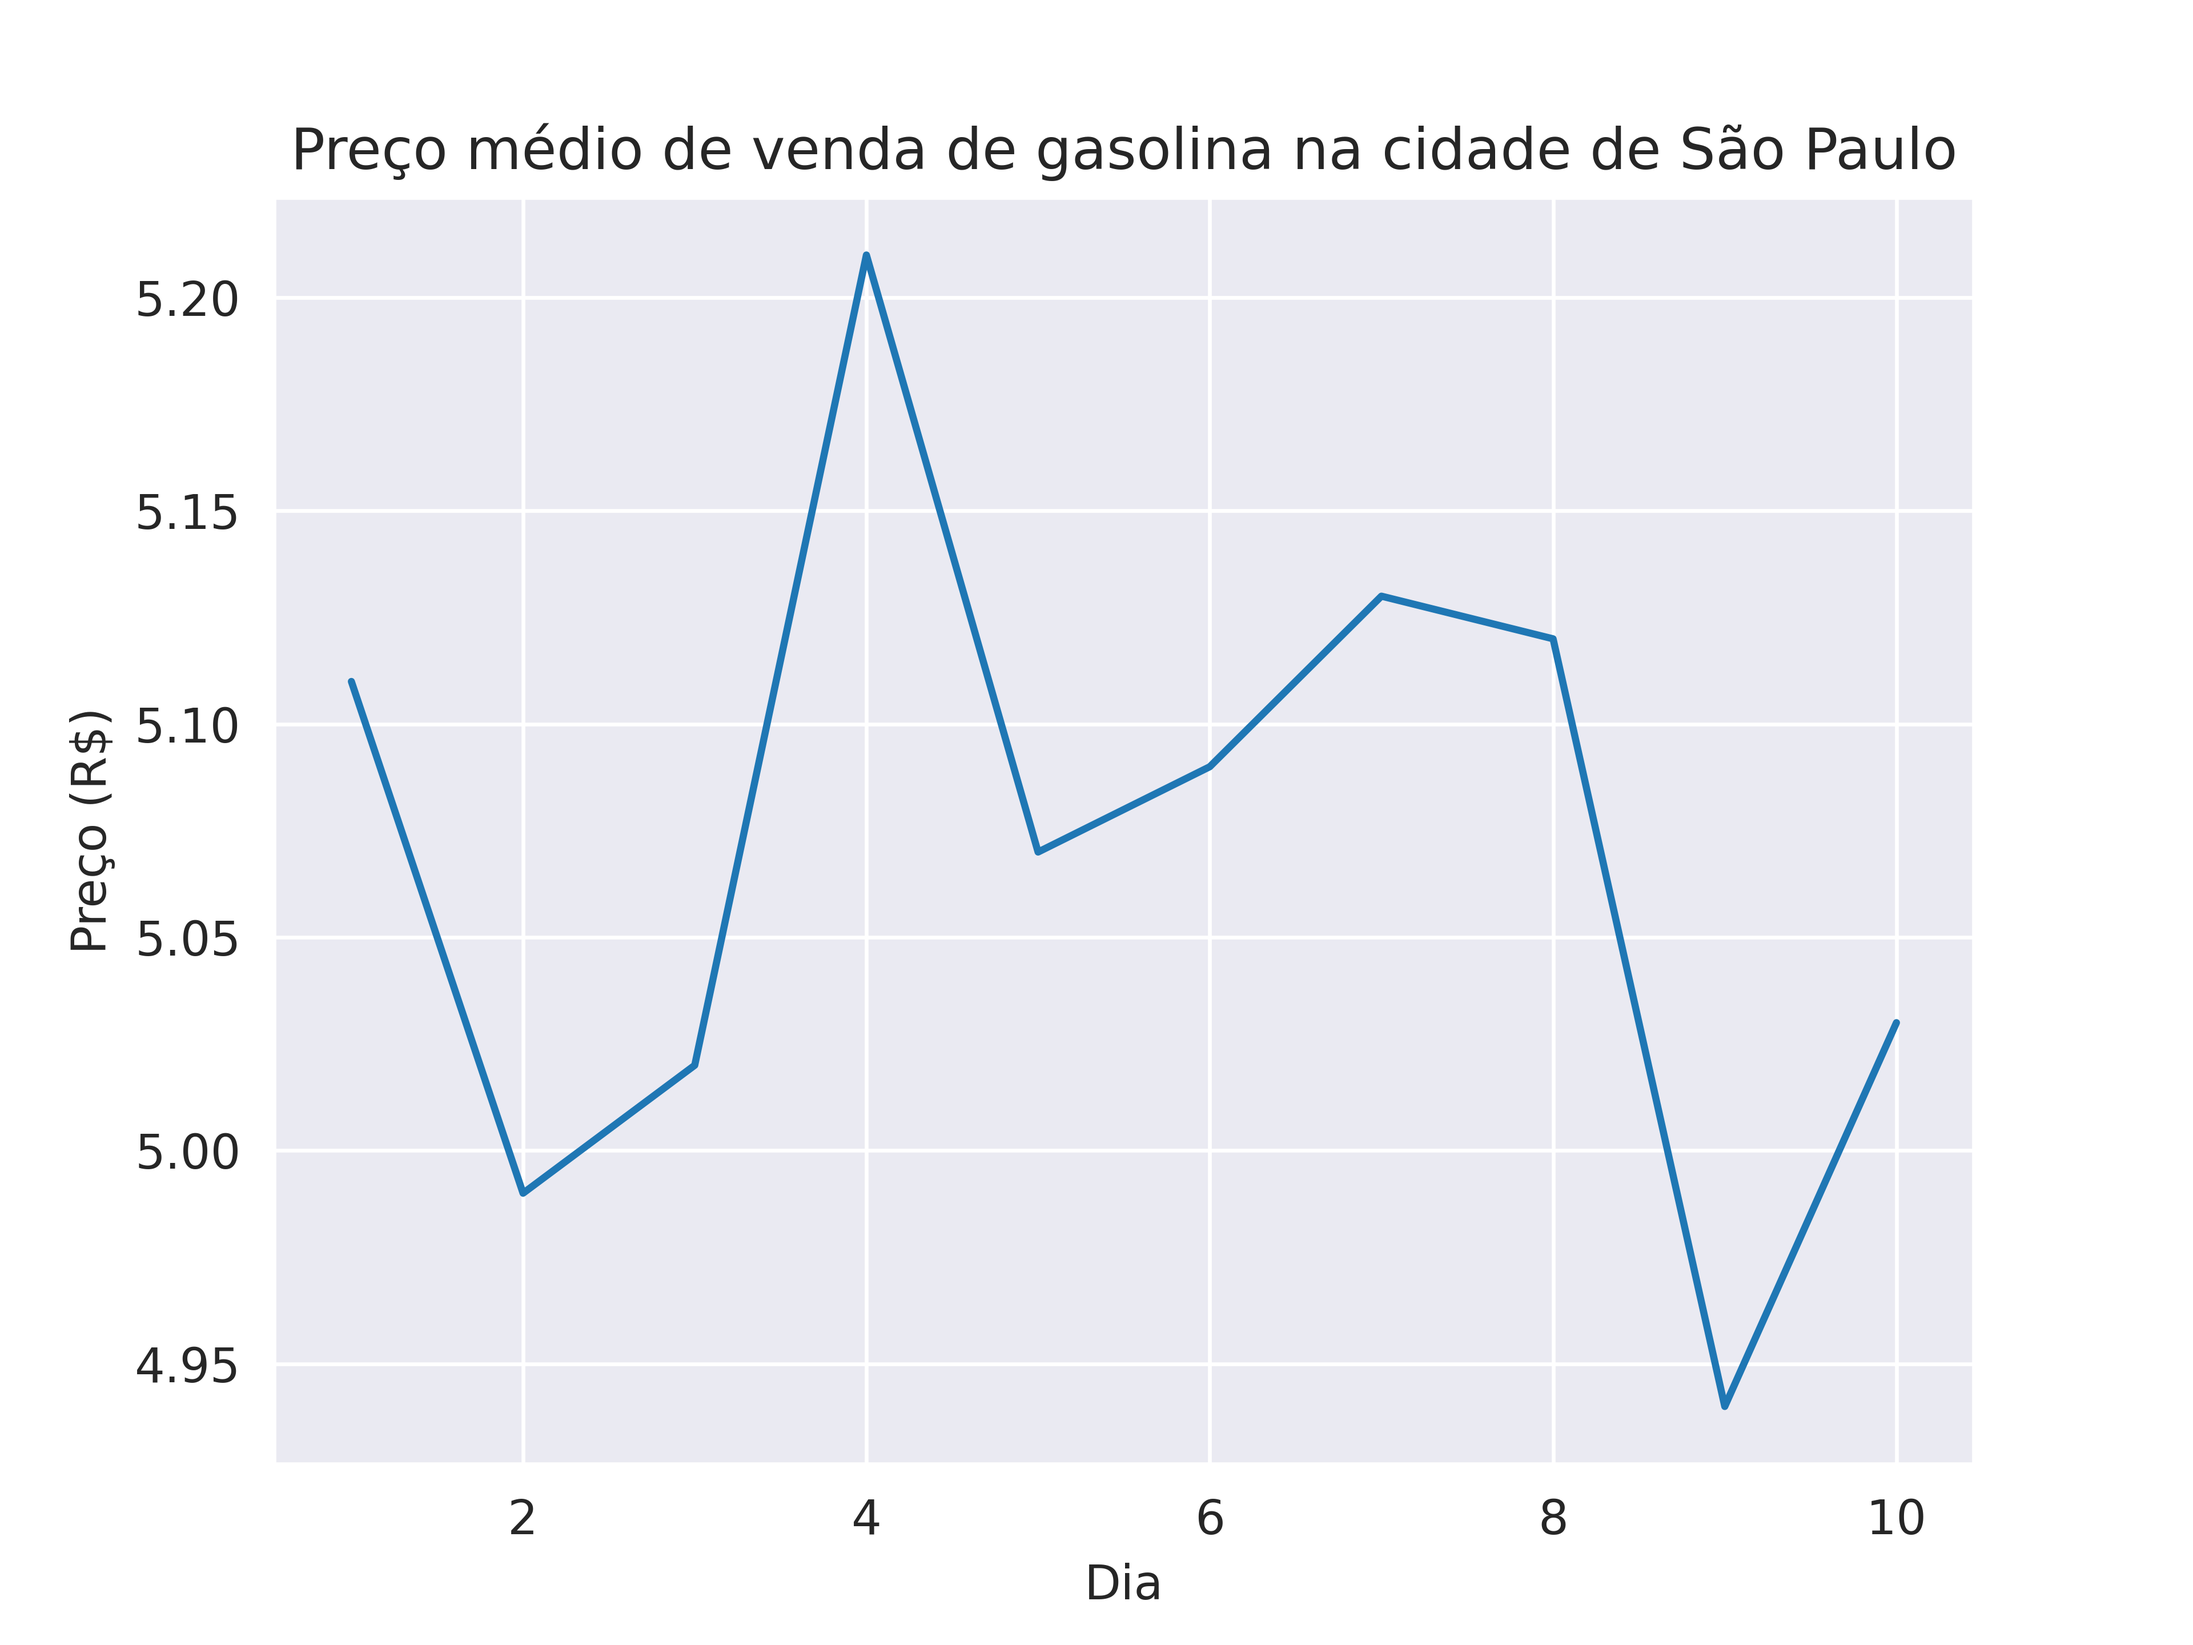
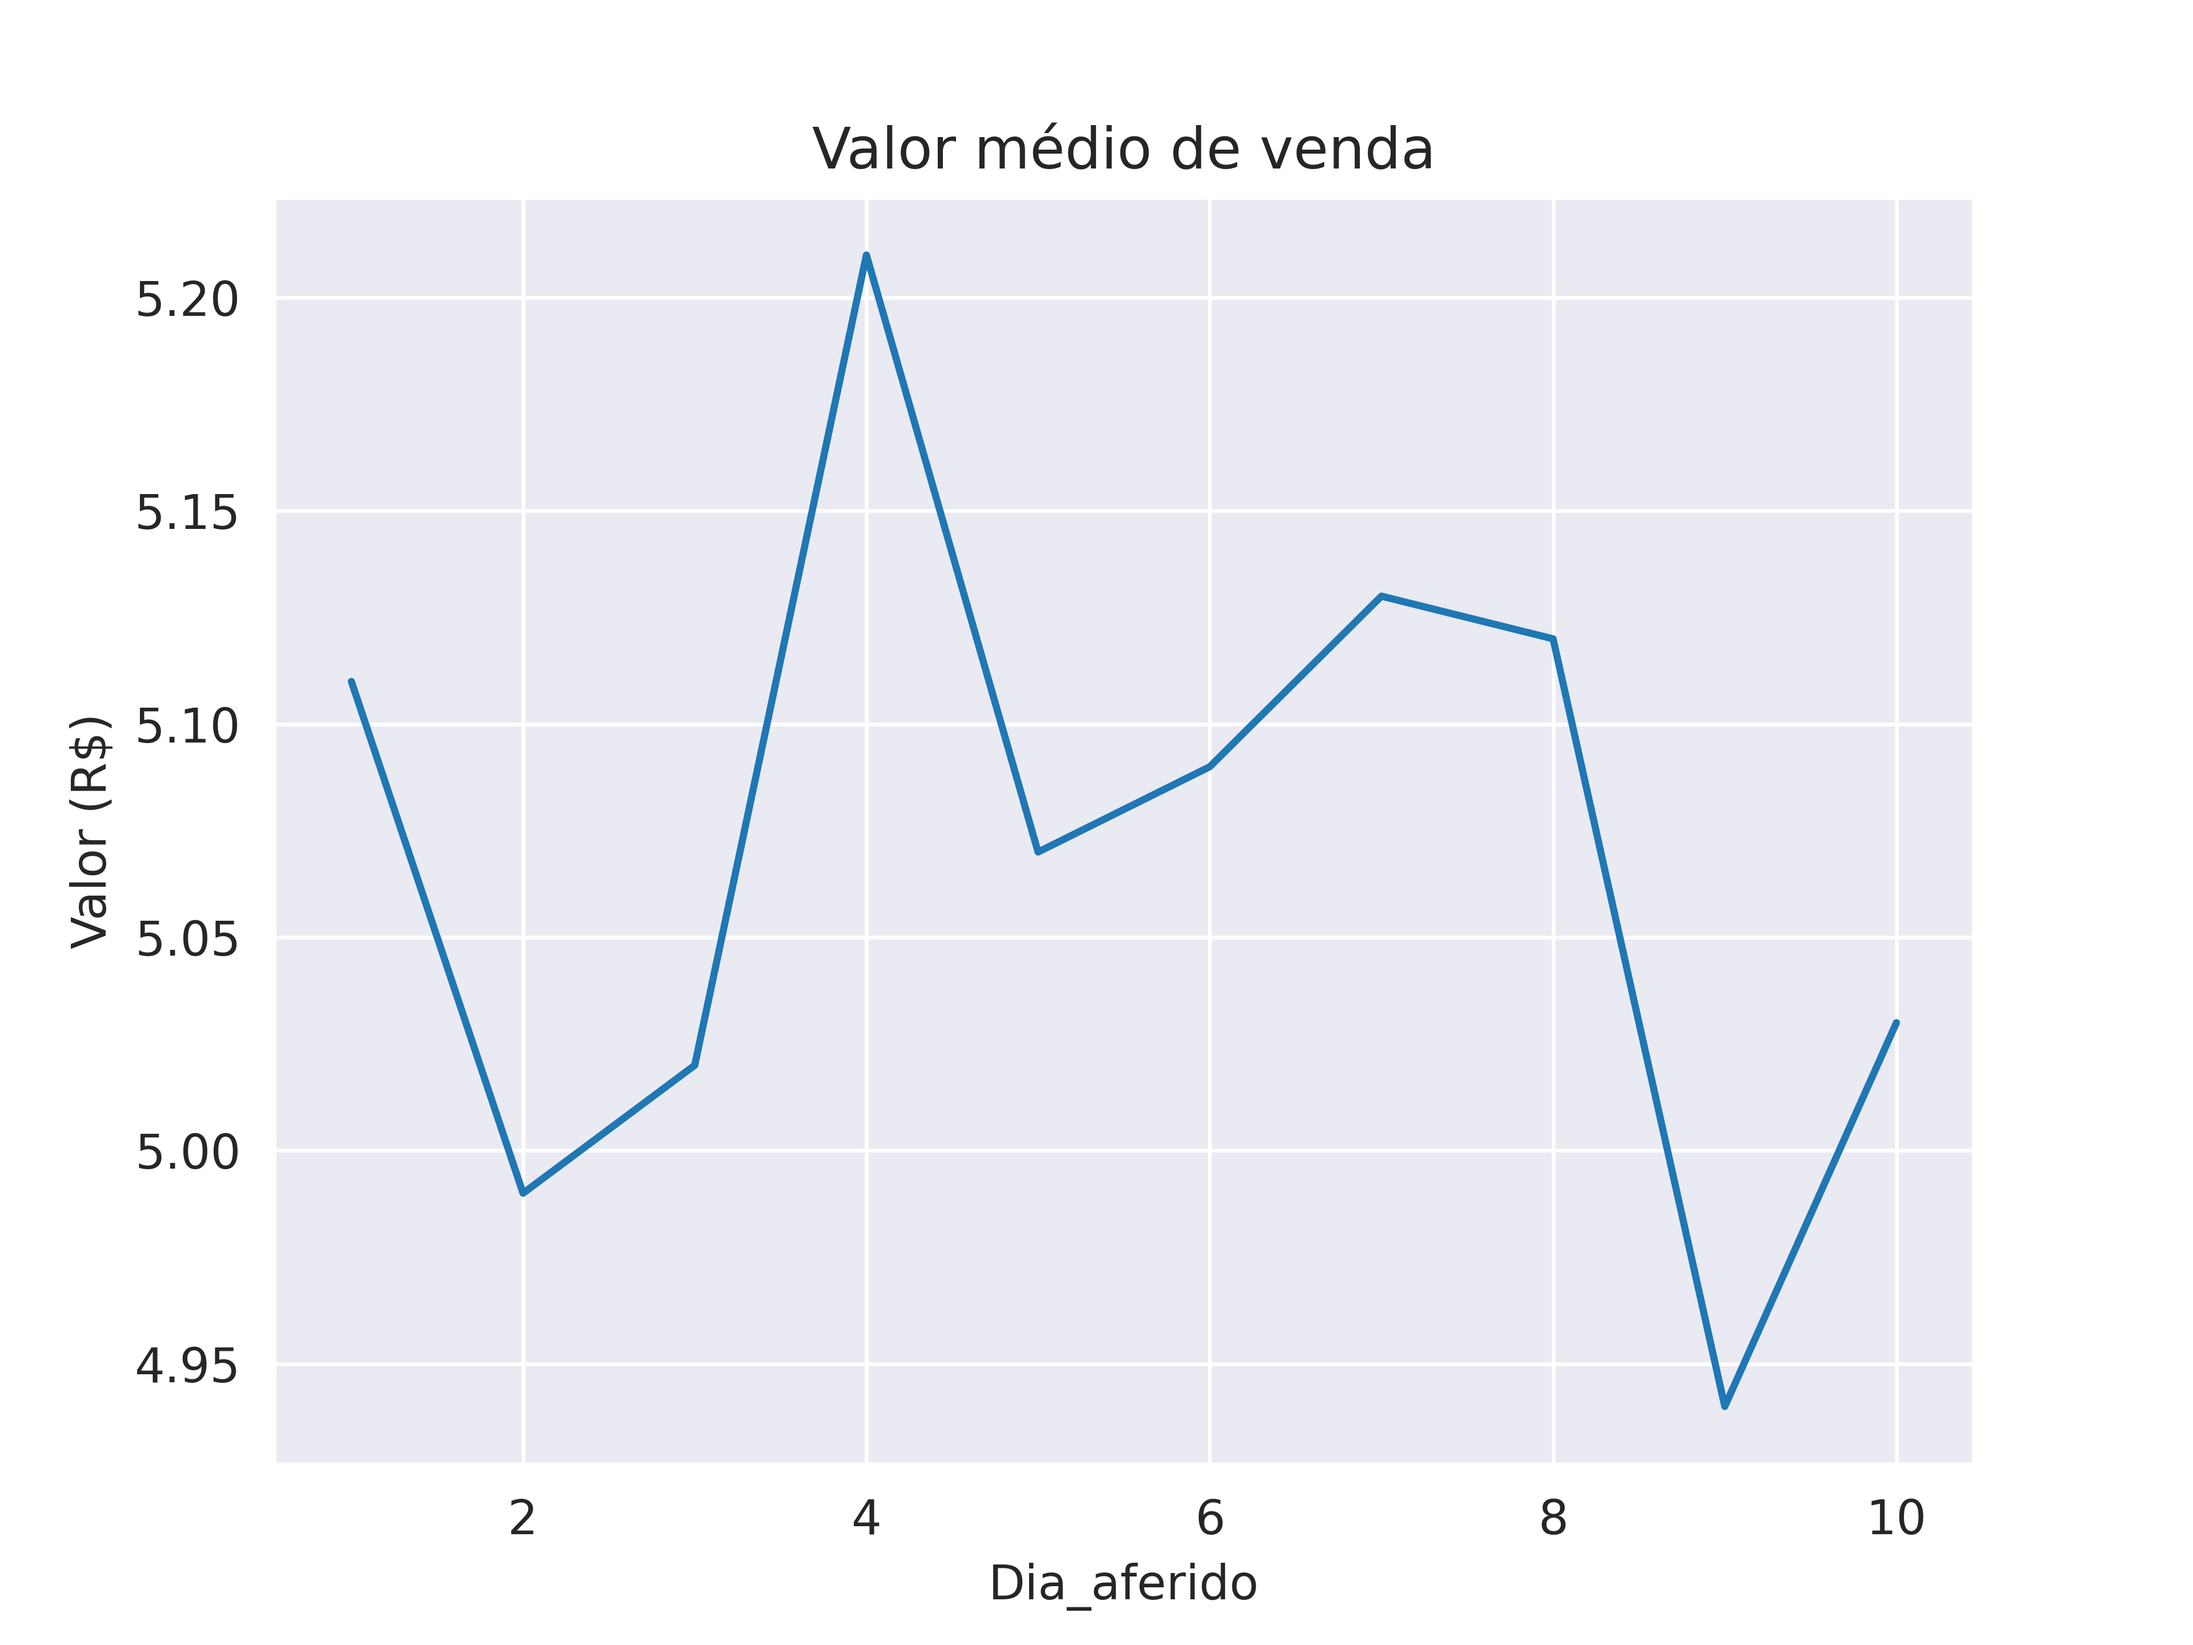
arquivos gasolina alterados em dev

diff --git a/gasolina.py b/gasolina.py
@@ -11,9 +11,9 @@ with sns.axes_style('darkgrid'):
   )
 
   grafico_gasolina.set(
-      title = 'Preço médio de venda de gasolina na cidade de São Paulo',
-      xlabel = 'Dia',
-      ylabel = 'Preço (R$)'
+      title = 'Valor médio de venda',
+      xlabel = 'Dia_aferido',
+      ylabel = 'Valor (R$)'
   )
 
   figura = grafico_gasolina.get_figure()
